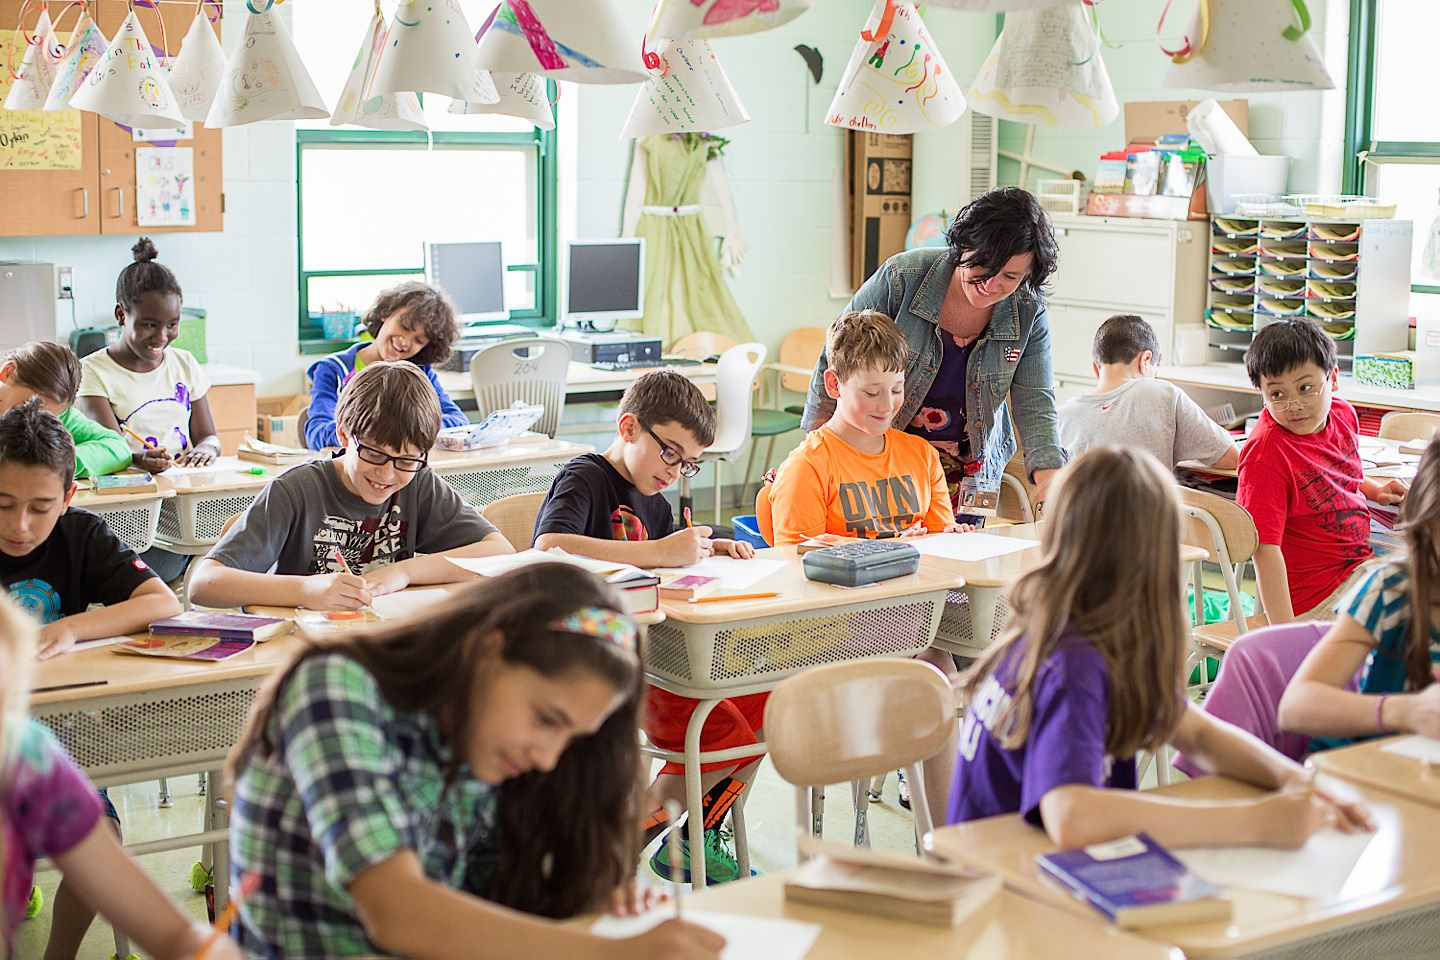
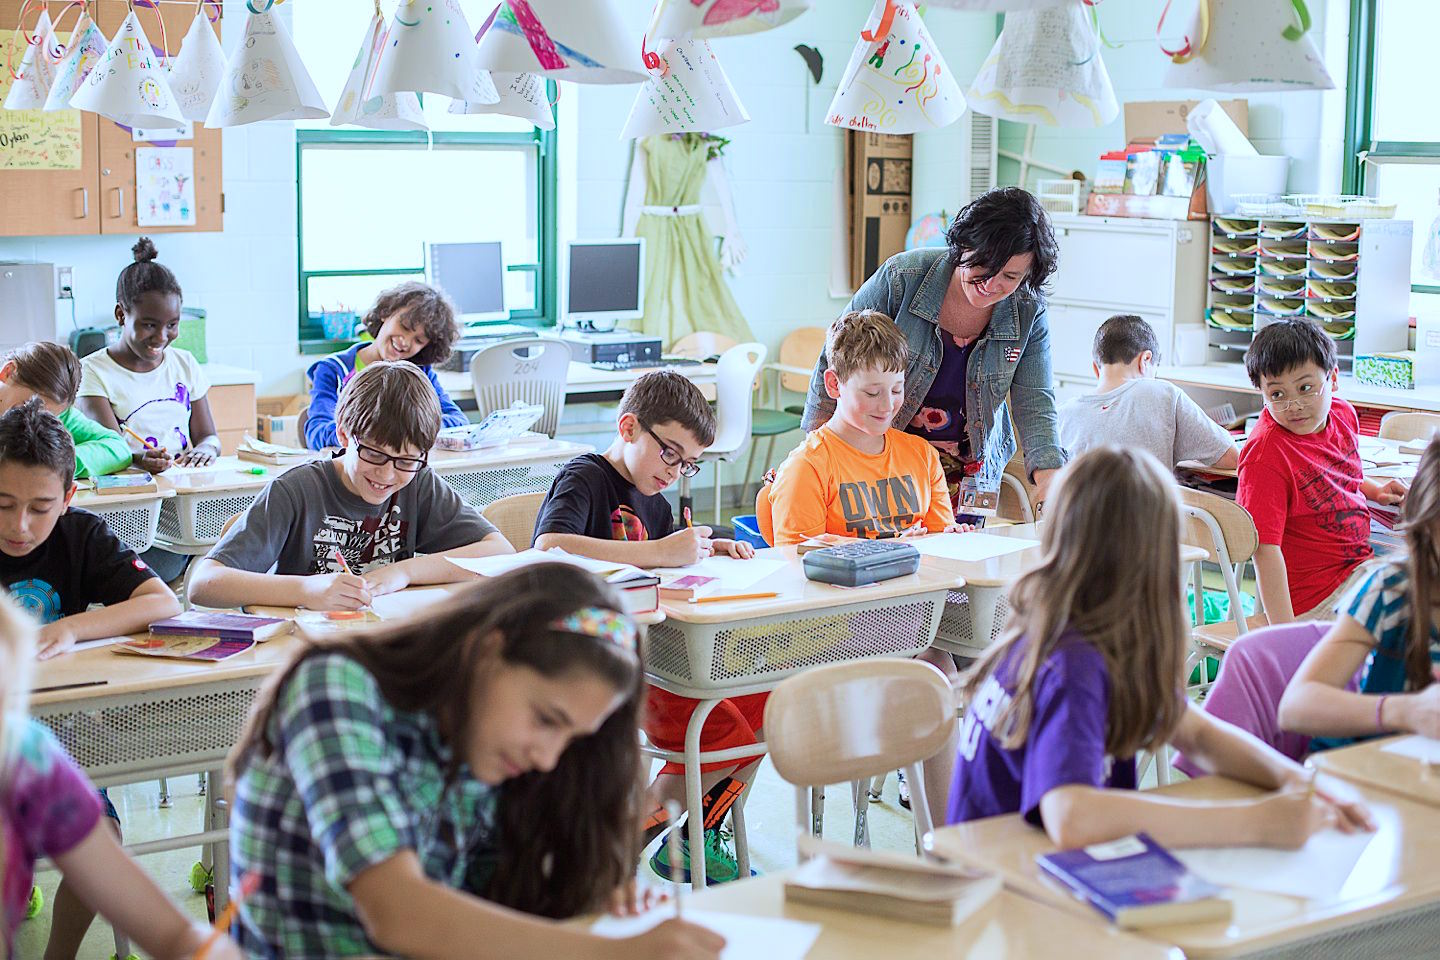
link to sign up

diff --git a/signup.html b/signup.html
@@ -10,7 +10,7 @@
     <link rel="stylesheet" type="text/css" media="all" href="https://static.thumbtack.com/theme/styles/release/primo/core_m_13f5d66d827892f8165ae6f84ca31ea231403c80.css.gz" />
     <link rel="stylesheet" type="text/css" media="all" href="https://static.thumbtack.com/theme/styles/release/primo/login_m_ba4fd2ee0d745fe18ec6836b4c87a5934ed8b970.css.gz" />
     </head>
-    <body style="background-image:url('img/classroom1.jpg'); background-repeat: no-repeat; background-size: cover" id="" class="primo primo-avenir primo-responsive ">
+    <body style="background-image:url('img/classroom.jpg'); background-repeat: no-repeat; background-size: cover" id="" class="primo primo-avenir primo-responsive ">
 
             
                 <div style="" class="" ><div class="wrapper"><div class="row header-row"><div class="header-logo"></div>
@@ -24,7 +24,7 @@
         
         
         
-        <div class="box" style="opacity: 0.7;">
+        <div class="box" style="opacity: 0.8;">
             
 <form id="register" name="register" method="post" action="" accept-charset="ISO-8859-1">
                                         <fieldset>
@@ -58,7 +58,7 @@
 
                 <fieldset>
                     <div class="">
-                        <button type="" class="bttn blue submit-bttn" onClick="window.open('apply_dev.html')">Create Account</button>
+                        <button type="" class="bttn blue submit-bttn" onClick="window.open('apply_dev.html')"ba>Create Account</button>
 
                     </div>
                 </fieldset>

diff --git a/index.html b/index.html
@@ -92,7 +92,7 @@
  -->              
  <br><br><br><br><!-- <p>Trove is reimagining the way teachers find learning tools to use in the K-12 digital classroom. We and our panel of experts are a team committed to your success. 
                 </p> -->
-                <a href="#signup" class="btn btn-primary btn-xl page-scroll" onclick="window.open()">Sign Up & Get Started!</a>
+                <a href="#signup" class="btn btn-primary btn-xl page-scroll" onClick="window.open('signup.html', '_self')">Sign Up & Get Started!</a>
             </div>
         </div>
     </header>
